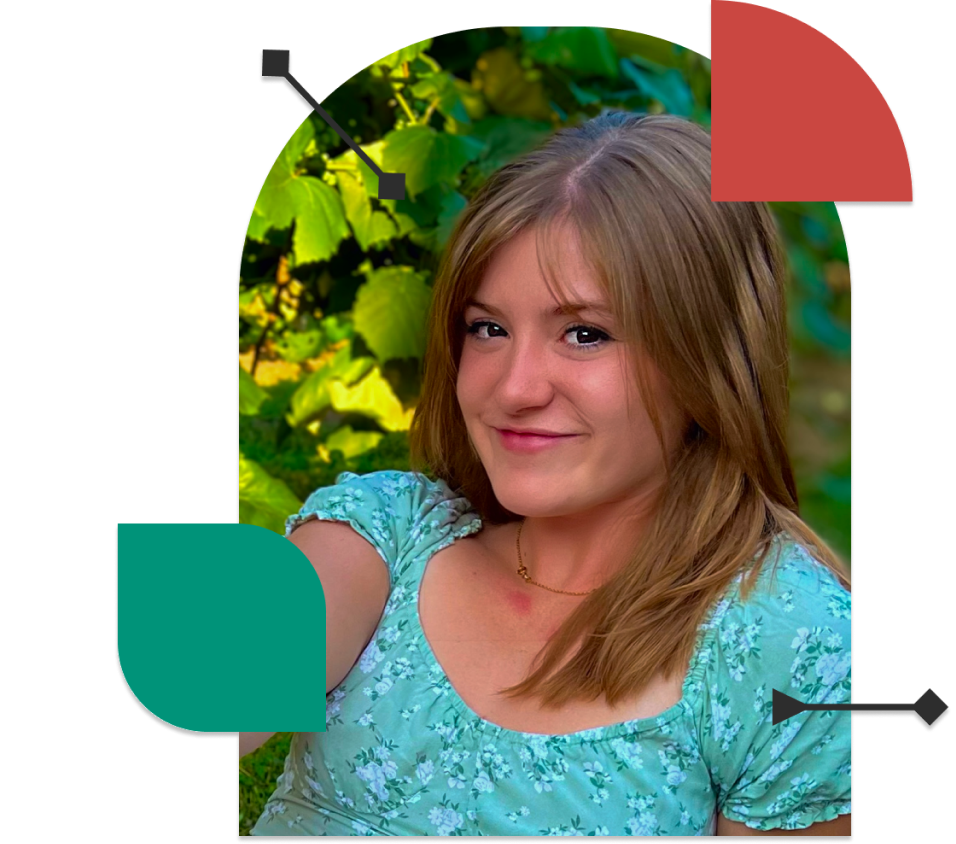
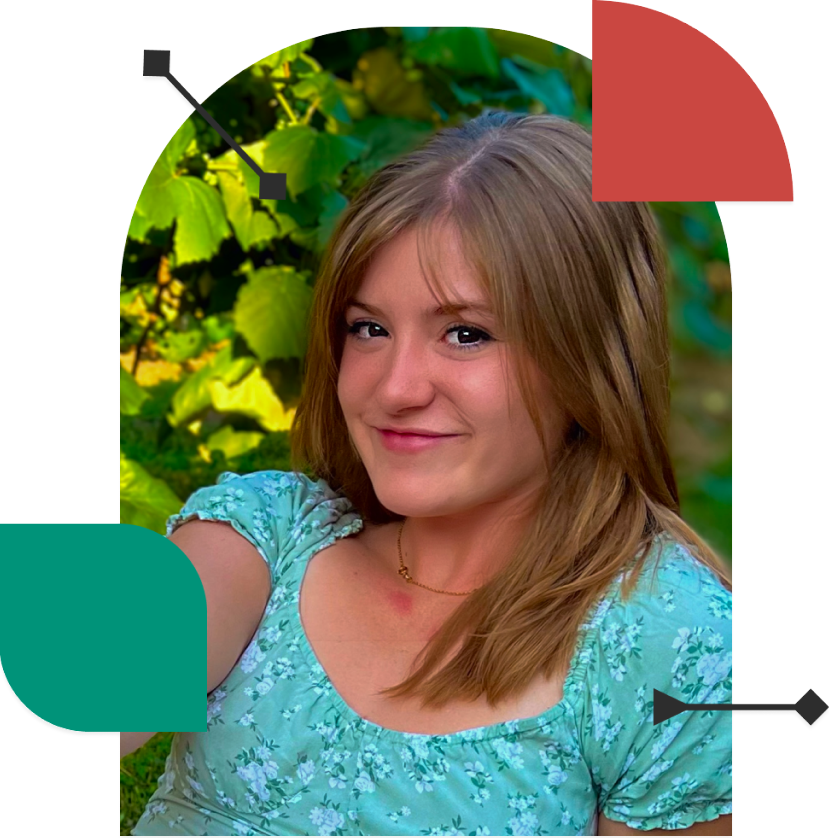
final

diff --git a/Index.HTML b/Index.HTML
@@ -4,41 +4,43 @@
         <title>Madyson's Portfolio</title>
         <link rel="stylesheet" href="style.css">
     </head>
-    <body>
-        <header class="navigation">
-            <div> 
-                 <img src="../UX_UI_HW_17/images/Main logo.png" alt="Main Logo" style="width:120px;height:120px;">
-                <nav>
-                    <ul class="inline-block">
-                    <li><a href="#home">Home</a></li>
-                    <li><a href="#about">About</a></li>
-                    <li><a href="#work">Work</a></li>
-                    <li><a href="#contact">Contact</a></li>
-                    </ul>
-                </nav></div>
 
-         <section class="heroImg"> 
-                <div class="content">
+    <style>
+        body {font-family: "League Spartan"}
+    </style>
+
+    <body>
+        <nav class="mainNav">
+                    <a class="logo"><img src="../UX_UI_HW_17/images/Main logo.png" alt="Main Logo" style="width:120px;"></a>
+                    <a class="active navButton" href="#home">Home</a>
+                    <a class="navButton" href="#about">About</a></li>
+                    <a class="navButton" href="#work">Work</a></li>
+                    <a class="navButton" href="#contact">Contact</a></li>
+        </nav>
+
+        <section class="hero"> 
+            <div class="heroContent">
+                <h1>
+                    madyson is a UX/UI & product designer who loves to improve the user experience 
+                </h1>
+                <p> 
+                    I do digital design on figma creating wireframes and prototyping, can 3D model products, & currently learning how to code.
+                </p>
+                <button type="button">Download Resume</button>
+            </div>
+            <div class="heroImg">
                     <img src="../UX_UI_HW_17/images/HeaderImage 1.png" alt="HeaderImage">
-                    <h1>
-                        madyson is a UX/UI & product designer who loves to improve the user experience 
-                    </h1>
-                    <p> 
-                        I do digital design on figma creating wireframes and prototyping, can 3D model products, & currently learning how to code.
-                    </p>
-                    <button type="button">Download Resume</button>
-                </div></section>
-                    
-         <footer>
-            <h2>
-                Lets work together!
-            </h2>
-             <ul>
-                 <li><a href="#home">Home</a></li>
-                 <li><a href="#about">About</a></li>
-                 <li><a href="#work">Work</a></li>
-                  <li><a href="#contact">Contact</a></li>
-                </ul></footer>
-        </header>
+            </div>
+        </section>
+
+        <footer>
+         <h2 class="footerHeader">Lets work together!  </h2>
+         <div class="footerNav">
+            <a href="#home">Home</a></li>
+            <a href="#about">About</a></li>
+            <a href="#work">Work</a></li>
+            <a href="#contact">Contact</a></li>
+            </div>
+        </footer>
     </body>
 </html>

diff --git a/style.css b/style.css
@@ -1,30 +1,91 @@
-nav.inline-block {
+.heroImg {
     display: inline-block;
-    vertical-align: top;
-    text-decoration: none;
-}
-heroImg {
-    height: 600px;
     padding: 25px;
+    margin-left: 5px; 
+    margin-top: 0;
+    contain: content;
+    width: 30%;
+    position: absolute;
+    right: 25px;
 }
-.content{
-    width:500px;
-    margin:0 auto;
+
+.heroContent {
+    width: 60%;
+    padding-bottom: 50px;
+    display: inline-block;
+    position: absolute;
+    top: 25%;
 }
+
+.heroImg img {
+    width: 100%;
+}
+
+.hero {
+    padding: 25px;
+    vertical-align: middle;
+    position: relative;
+    height: 70vh;
+    max-height: 650px;
+}
+
+h2 {
+    display:flex;
+    color: white;
+    padding-left: 20px;
+    padding-top: 25px;
+    font-family: League Spartan;
+}
+
+body {
+    margin:0;
+    padding: 0;
+}
+
+.mainNav {
+    text-align: right;
+    padding-left: 25px;
+    padding-top: 5px;
+    padding-bottom: 5px;
+    padding-right: 25px;
+    position: relative;
+}
+.logo {
+    position: absolute;
+    left: 25px;
+}
+.navButton {
+    margin-left: 15px;
+    margin-right: 15px;
+    list-style: none;
+    text-align: center;
+    padding: 14px 16px;
+    text-decoration: none;
+    font-size: 20px;
+    color: #373738;
+}
+.navButton:hover {
+    background-color: #ddd;
+    color: #009379;
+  }
+  
+.active {
+    background-color: #009379;
+    color: white;
+  }
 
 footer { 
     background-color:#373738;
 }
-
-li footer{
+.footerNav a {
     display: inline-block;
-    vertical-align: top;
-    padding: 25px
-}
-h2 {
+    text-decoration: none;
+    font-size: 17px;
+    padding: 20px;
     color: white;
-    padding-left: 25px;
-    padding-top: 25px;
+}
+.footer {
+    color: white;
 }
 button {
     background-color: #373738;
